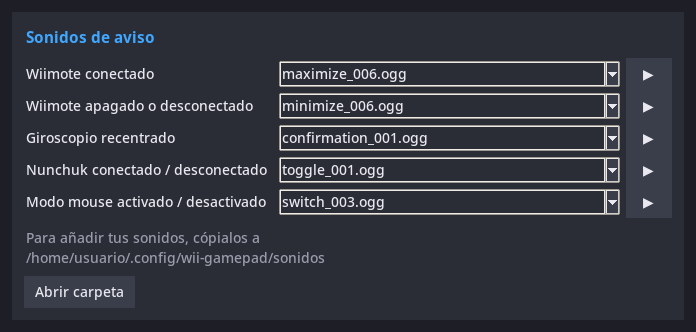
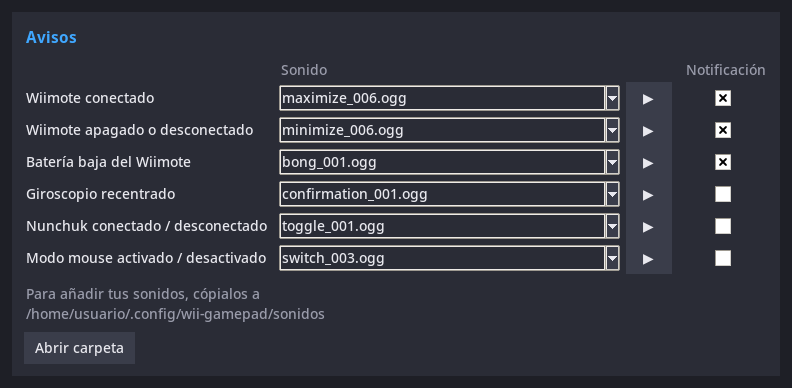
Indicador de batería del Wiimote y notificaciones de escritorio
- La ventana muestra la batería del Wiimote junto al título.
- Aviso nuevo de batería baja (20 % y 10 %).
- «Sonidos…» pasa a «Avisos…»: cada evento elige sonido y notificación (notify-send).
- install.sh instala libnotify; libnotify opcional en el paquete de AUR.

diff --git a/wii_gamepad.py b/wii_gamepad.py
@@ -19,6 +19,7 @@ import os
 import select
 import shutil
 import subprocess
+import threading
 import time
 from pathlib import Path
 
@@ -161,8 +162,9 @@ DEFAULT_PROFILES = {
 }
 PROFILE_OPTIONS = {"deadzone": 0.10, "tilt_sensitivity": 1.0, "invert_tilt_y": False,
                    "gyro_sensitivity": 1.0, "invert_gyro_y": False, "gyro_mode": "speed"}
-# Sonidos de aviso en la PC: evento -> etiqueta.
+# Avisos en la PC (sonido y notificación de escritorio): evento -> etiqueta.
 SOUND_EVENTS = {"connect": "Wiimote conectado", "disconnect": "Wiimote apagado o desconectado",
+                "battery": "Batería baja del Wiimote",
                 "recenter": "Giroscopio recentrado", "nunchuk": "Nunchuk conectado / desconectado",
                 "mouse": "Modo mouse activado / desactivado"}
 SOUND_DIRS = [CONFIG.parent / "sonidos", Path(__file__).resolve().parent / "sonidos"]  # los del usuario primero
@@ -171,11 +173,15 @@ GLOBAL_OPTIONS = {"idle_timeout_min": 10, "recenter_combo": "B+Down", "rumble": 
                   "mouse_combo": "+-", "mouse": MOUSE_DEFAULTS,
                   "sounds": {"connect": "maximize_006.ogg", "disconnect": "minimize_006.ogg",
                              "recenter": "confirmation_001.ogg", "nunchuk": "toggle_001.ogg",
-                             "mouse": "switch_003.ogg"}}
+                             "mouse": "switch_003.ogg", "battery": "bong_001.ogg"},
+                  "notifications": {"connect": True, "disconnect": True, "battery": True,
+                                    "recenter": False, "nunchuk": False, "mouse": False}}
 IDLE_TIMEOUT_MIN = GLOBAL_OPTIONS["idle_timeout_min"]  # minutos sin uso antes de apagar (0 = nunca)
 MOTION_THRESHOLD = 25  # cambio del acelerómetro (~0.25 g) que cuenta como "en uso"
 ACTIVITY = 0.15  # un stick analógico cuenta como "en uso" (para el apagado) pasado este valor
 ONCE_WAIT = 15  # con --once, segundos que espera al Wiimote antes de rendirse
+BATTERY_LOW = (20, 10)  # avisa al bajar de cada nivel (%), una vez por conexión
+BATTERY_CHECK = 120  # segundos entre lecturas de la batería (cada una le pide su estado al Wiimote)
 
 
 def new_profile():
@@ -207,6 +213,8 @@ def load_config(path=CONFIG):
         # Si el archivo ya no existe (p. ej. un sonido de versiones anteriores), vuelve el de por defecto.
         if cfg["sounds"].setdefault(k, v) and not sound_path(cfg["sounds"][k]):
             cfg["sounds"][k] = v
+    for k, v in GLOBAL_OPTIONS["notifications"].items():
+        cfg["notifications"].setdefault(k, v)
     for k, v in MOUSE_DEFAULTS.items():
         cfg["mouse"].setdefault(k, copy.deepcopy(v))
     for k, v in MOUSE_DEFAULTS["buttons"].items():
@@ -627,6 +635,39 @@ def play_on_pc(name, wait=False):
         pass
 
 
+def notify_desktop(summary, body="", urgency="normal", transient=True, wait=False):
+    """Notificación de escritorio con notify-send (libnotify); sin él no hace nada."""
+    sender = shutil.which("notify-send")
+    if not sender:
+        return
+    cmd = [sender, "-a", "Wii Gamepad", "-i", "wii-gamepad", "-u", urgency]
+    if transient:  # los avisos de rutina no se quedan en el historial
+        cmd += ["-h", "boolean:transient:true"]
+    try:
+        proc = subprocess.Popen([*cmd, summary, body], stdout=subprocess.DEVNULL, stderr=subprocess.DEVNULL)
+        if wait:
+            proc.wait(timeout=5)
+    except (OSError, subprocess.TimeoutExpired):
+        pass
+
+
+def battery_path(dev_path=None):
+    """Archivo de sysfs con la carga del Wiimote de ese dispositivo (o del primero que haya), o None."""
+    base = (Path("/sys/class/input") / Path(dev_path).name / "device" / "device" / "power_supply"
+            if dev_path else Path("/sys/class/power_supply"))
+    return next(base.glob("wiimote_battery_*/capacity"), None)
+
+
+def battery_level(path):
+    """Carga en %, o None. El driver da byte * 100 / 255, pero con pilas nuevas el Wiimote
+    no pasa de 0xC8 (~78 %): se reescala para que unas pilas nuevas marquen 100 %."""
+    try:
+        raw = int(Path(path).read_text())
+    except (OSError, TypeError, ValueError):
+        return None
+    return min(100, round(raw * 255 / 0xC8))
+
+
 def power_off(dev):
     """Corta el Bluetooth del Wiimote, que al perder la conexión se apaga."""
     uevent = sysfs(dev.path, "device/uevent") or ""  # dispositivo HID padre
@@ -671,6 +712,7 @@ class Bridge:
             self.kb.stop_watch()
         self.rumble_on = cfg["rumble"]
         self.sounds = cfg["sounds"]
+        self.notifications = cfg["notifications"]
         self.profile = cfg["profiles"][cfg["active"]]
         self.buttons = {SOURCES[s][0]: (s, t) for s, t in self.profile["buttons"].items() if s in SOURCES}
         self.make_axes()
@@ -737,7 +779,7 @@ class Bridge:
             self.kb.stop_watch()
         if self.rumble and self.rumble_on:
             self.rumble.pulse(0.15)
-        self.notify("mouse")
+        self.notify("mouse", "Modo mouse" if self.mouse_mode else "Modo mando de juego")
         print("Modo mouse" if self.mouse_mode else "Modo mando de juego")
 
     def show_keyboard(self, auto=False):
@@ -801,8 +843,10 @@ class Bridge:
         self.notify("recenter")
         print("Giroscopio recentrado")
 
-    def notify(self, event, wait=False):
-        """Sonido de aviso en la PC."""
+    def notify(self, event, summary=None, body="", urgency="normal", wait=False):
+        """Aviso en la PC: notificación de escritorio (si está activada para ese evento) y sonido."""
+        if self.notifications.get(event):
+            notify_desktop(summary or SOUND_EVENTS[event], body, urgency, event != "battery", wait)
         play_on_pc(self.sounds.get(event), wait)
 
     def handle_stick(self, mode, axis_id, value):
@@ -848,7 +892,7 @@ class Bridge:
                         self.make_axes()
                         print("Nunchuk conectado")
                         if not first_attach:  # al encender ya suena el aviso del Wiimote
-                            self.notify("nunchuk")
+                            self.notify("nunchuk", "Nunchuk conectado")
 
         def detach(name, gone):
             nonlocal attach_after
@@ -862,7 +906,7 @@ class Bridge:
                 attach_after = time.monotonic() + 2
                 if name == NUNCHUK:
                     print("Nunchuk desconectado")
-                    self.notify("nunchuk")
+                    self.notify("nunchuk", "Nunchuk desconectado")
 
         def detach_extras():
             present = set(evdev.list_devices())
@@ -886,8 +930,13 @@ class Bridge:
         print(f"Wiimote conectado -> mando virtual '{self.pad.name}'")
         if self.rumble and self.rumble_on:
             self.rumble.pulse(0.3)
-        self.notify("connect")
-        last_scan = last_input = time.monotonic()
+        battery = battery_path(wiimote.path)
+        level = battery_level(battery)
+        self.notify("connect", body=f"Batería: {level} %" if level is not None else "")
+        battery_warned = set()  # niveles de BATTERY_LOW ya avisados
+        battery_reads = [level]  # la lectura se hace en otro hilo: puede tardar y frenaría los botones
+        idle_off = False
+        last_scan = last_input = last_battery = time.monotonic()
         motion = {}  # eje del acelerómetro -> último valor que contó como movimiento
         timeout = 1.0
         try:
@@ -965,9 +1014,23 @@ class Bridge:
                           "(presiona 1+2 para volver a conectarlo)")
                     self.pad.reset()
                     self.mouse.reset()
-                    if not power_off(wiimote):
+                    if power_off(wiimote):
+                        idle_off = True
+                    else:
                         print("No se pudo desconectar el Wiimote (¿falta bluetoothctl?)")
                     last_input = now
+                if battery and now - last_battery > BATTERY_CHECK:
+                    last_battery = now
+                    threading.Thread(target=lambda: battery_reads.append(battery_level(battery)),
+                                     daemon=True).start()
+                while battery_reads:
+                    level = battery_reads.pop(0)
+                    low = [t for t in BATTERY_LOW if level is not None and level <= t and t not in battery_warned]
+                    if low:
+                        battery_warned.update(low)
+                        print(f"Batería baja del Wiimote: {level} %")
+                        self.notify("battery", body=f"Queda {level} %. Cambia las pilas pronto.",
+                                    urgency="critical" if min(low) == min(BATTERY_LOW) else "normal")
                 if now - last_scan > 1 or self.rescan:
                     last_scan, self.rescan = now, False
                     if self.config_changed():
@@ -980,7 +1043,8 @@ class Bridge:
             self.mouse.reset()
             self.kb.hide()
             self.kb.stop_watch()
-            self.notify("disconnect", wait=True)
+            idle = f"Se apagó tras {self.idle_timeout // 60} min sin uso. " if idle_off else ""
+            self.notify("disconnect", body=idle + "Presiona 1+2 para volver a conectarlo.", wait=True)
             return True
         finally:
             self.rumble = None

diff --git a/wii_gamepad_gui.py b/wii_gamepad_gui.py
@@ -8,6 +8,7 @@ import os
 import select
 import subprocess
 import sys
+import time
 import tkinter as tk
 from pathlib import Path
 from tkinter import messagebox, simpledialog, ttk
@@ -181,6 +182,11 @@ class App(tk.Tk):
         top = ttk.Frame(self, padding=(14, 12, 14, 6))
         top.pack(fill="x")
         ttk.Label(top, text="Wii Gamepad", style="Head.TLabel").pack(side="left")
+        self.battery_icon = tk.Canvas(top, width=30, height=14, bg=BG, highlightthickness=0)
+        self.battery_icon.pack(side="left", padx=(16, 6))
+        self.battery_label = ttk.Label(top, text="", style="Status.TLabel")
+        self.battery_label.pack(side="left")
+        self.battery_file, self.battery_read = None, 0.0
         ttk.Button(top, text="Borrar", command=self.delete_profile).pack(side="right", padx=2)
         ttk.Button(top, text="Renombrar", command=self.rename_profile).pack(side="right", padx=2)
         ttk.Button(top, text="Duplicar", command=self.duplicate_profile).pack(side="right", padx=2)
@@ -266,7 +272,7 @@ class App(tk.Tk):
         self.bridge_btn = ttk.Button(bottom, text="Iniciar puente", command=self.toggle_bridge)
         self.bridge_btn.pack(side="right", padx=2)
         ttk.Button(bottom, text="Restaurar perfil", command=self.reset_profile).pack(side="right", padx=2)
-        ttk.Button(bottom, text="Sonidos…", command=self.open_sounds).pack(side="right", padx=2)
+        ttk.Button(bottom, text="Avisos…", command=self.open_sounds).pack(side="right", padx=2)
         ttk.Button(bottom, text="Modo mouse…", command=self.open_mouse).pack(side="right", padx=2)
 
     # --- perfiles ---------------------------------------------------------------
@@ -332,13 +338,15 @@ class App(tk.Tk):
             self.sounds_win.lift()
             return
         win = self.sounds_win = tk.Toplevel(self)
-        win.title("Sonidos")
+        win.title("Avisos")
         win.configure(bg=BG)
-        f = self.panel(win, "Sonidos de aviso")
+        f = self.panel(win, "Avisos")
         f.pack(fill="both", expand=True, padx=12, pady=12)
         none = "— Ninguno —"
         files = wg.sound_files()
-        sounds = self.cfg["sounds"]
+        sounds, notes = self.cfg["sounds"], self.cfg["notifications"]
+        ttk.Label(f, text="Sonido", style="Muted.TLabel").grid(row=1, column=1, sticky="w")
+        ttk.Label(f, text="Notificación", style="Muted.TLabel").grid(row=1, column=3, padx=(12, 0))
 
         def row(r, event, label):
             ttk.Label(f, text=label, style="Panel.TLabel").grid(row=r, column=0, sticky="w", padx=(0, 10), pady=3)
@@ -354,13 +362,26 @@ class App(tk.Tk):
             cb.bind("<<ComboboxSelected>>", changed)
             ttk.Button(f, text="▶", width=3, command=lambda: wg.play_on_pc(sounds.get(event))).grid(
                 row=r, column=2, padx=(6, 0))
+            note = tk.BooleanVar(value=notes.get(event, False))
 
-        for r, (event, label) in enumerate(wg.SOUND_EVENTS.items(), start=1):
+            def note_changed():
+                notes[event] = note.get()
+                self.save()
+                if note.get():  # muestra cómo se verá
+                    wg.notify_desktop(label, "Así se verá este aviso.")
+
+            ttk.Checkbutton(f, variable=note, style="Panel.TCheckbutton", command=note_changed).grid(
+                row=r, column=3, padx=(12, 0))
+
+        for r, (event, label) in enumerate(wg.SOUND_EVENTS.items(), start=2):
             row(r, event, label)
-        r = len(wg.SOUND_EVENTS) + 1
+        r = len(wg.SOUND_EVENTS) + 2
         user_dir = wg.SOUND_DIRS[0]
-        ttk.Label(f, text=f"Para añadir tus sonidos, cópialos a {user_dir}", style="Muted.TLabel",
-                  wraplength=460).grid(row=r, column=0, columnspan=3, sticky="w", pady=(8, 0))
+        hint = f"Para añadir tus sonidos, cópialos a {user_dir}"
+        if not wg.shutil.which("notify-send"):
+            hint += ". Para las notificaciones falta notify-send (paquete libnotify)."
+        ttk.Label(f, text=hint, style="Muted.TLabel",
+                  wraplength=460).grid(row=r, column=0, columnspan=4, sticky="w", pady=(8, 0))
 
         def open_dir():
             user_dir.mkdir(parents=True, exist_ok=True)
@@ -538,7 +559,26 @@ class App(tk.Tk):
 
     def refresh_bridge(self):
         self.update_bridge()
+        self.refresh_battery()
         self.after(1500, self.refresh_bridge)
+
+    def refresh_battery(self):
+        path = wg.battery_path()  # buscarla es barato; leerla le pide su estado al Wiimote
+        now = time.monotonic()
+        if path == self.battery_file and now - self.battery_read < 30:
+            return
+        self.battery_file, self.battery_read = path, now
+        level = wg.battery_level(path) if path else None
+        c = self.battery_icon
+        c.delete("all")
+        color = MUTED if level is None else XBOX_COLORS["A"] if level > 50 else \
+            XBOX_COLORS["Y"] if level > 20 else XBOX_COLORS["B"]
+        c.create_rectangle(1, 1, 26, 13, outline=color, width=2)
+        c.create_rectangle(26, 4, 29, 10, fill=color, outline="")
+        if level:
+            c.create_rectangle(4, 4, 4 + 19 * level / 100, 10, fill=color, outline="")
+        self.battery_label.configure(text="Wiimote sin conectar" if level is None else f"{level} %",
+                                     foreground=MUTED if level is None or level > 20 else color)
 
     def update_bridge(self):
         running = self.bridge_running()

diff --git a/tests/test_bridge.py b/tests/test_bridge.py
@@ -202,6 +202,7 @@ def test_bridge(tmp):
     cfg_path = tmp / "config.json"
     cfg = wg.default_config()
     cfg["sounds"] = {k: "" for k in cfg["sounds"]}  # en silencio
+    cfg["notifications"] = {k: False for k in cfg["notifications"]}
     cfg["mouse"]["auto_keyboard"] = False  # que no aparezca el teclado en el escritorio
     cfg["idle_timeout_min"] = 0
     cfg_path.write_text(json.dumps(cfg))

diff --git a/README.en.md b/README.en.md
@@ -128,15 +128,18 @@ Steam sees the virtual controller as a physical one, so its layout is applied *o
 profile here. Remap in only one place: either use the **Steam Input (1:1)** profile and remap in
 Steam, or keep Steam's default layout and use this app's profiles.
 
-## Gyro, rumble, sounds and battery
+## Gyro, rumble, alerts and battery
 
 - **Gyro (Motion Plus):** turning the Wiimote moves the camera. In "Aim" mode, pointing to a side
   keeps the camera turning; press **B + D-pad ↓** to recenter. It recalibrates by itself every
   time the Wiimote rests still for a second.
 - **Rumble:** games that rumble an Xbox controller rumble the Wiimote too (its motor is on/off
   only, so soft rumble feels choppy).
-- **Sounds:** a sound plays on the PC on connect, disconnect, recenter, Nunchuk and mouse mode.
-  Choose them in **Sonidos…** or add your own to `~/.config/wii-gamepad/sonidos/`.
+- **Alerts:** a sound plays on the PC on connect, disconnect, low battery, recenter, Nunchuk and
+  mouse mode. In **Avisos…** you choose each sound and whether it also shows a desktop
+  notification (by default: connect with the battery level, disconnect, and battery below 20 %
+  and 10 %). Add your own sounds to `~/.config/wii-gamepad/sonidos/`. The window shows the
+  Wiimote's battery next to its title.
 - **Battery:** after 10 idle minutes the Wiimote is turned off (`wii-gamepad --idle 20` changes
   it, `--idle 0` disables it). The accelerometer is only enabled by profiles that use tilt.
 

diff --git a/README.md b/README.md
@@ -188,14 +188,19 @@ Los juegos que hacen vibrar el mando de Xbox también hacen vibrar el Wiimote. S
 solo enciende o apaga, así que las vibraciones suaves se notan entrecortadas. Se
 desactiva con «Vibrar cuando el juego lo pida», y «Probar vibración» la comprueba.
 
-## Sonidos
+## Avisos y batería
 
-![Ventana de sonidos](docs/sonidos.png)
+![Ventana de avisos](docs/sonidos.png)
 
-Suena un aviso al conectar el Wiimote, al apagarse, al recentrar el giroscopio y al
-conectar o quitar el Nunchuk. Se oye en la PC; al conectar, además, el Wiimote vibra.
-En **Sonidos…** eliges cada sonido (o «Ninguno»). Para añadir los tuyos, cópialos a
-`~/.config/wii-gamepad/sonidos/`.
+Suena un aviso al conectar el Wiimote, al apagarse, con la batería baja, al recentrar el
+giroscopio, al conectar o quitar el Nunchuk y al cambiar al modo mouse. Se oye en la PC; al
+conectar, además, el Wiimote vibra. En **Avisos…** eliges cada sonido (o «Ninguno») y si
+quieres también una notificación de escritorio. Por defecto la hay al conectar (con el nivel
+de batería), al desconectar y cuando la batería baja del 20 % y del 10 %. Para añadir tus
+sonidos, cópialos a `~/.config/wii-gamepad/sonidos/`.
+
+La ventana muestra la batería del Wiimote junto al título. Las notificaciones usan
+`notify-send` (paquete `libnotify`), que instala `install.sh`.
 
 ## Ahorro de batería
 
